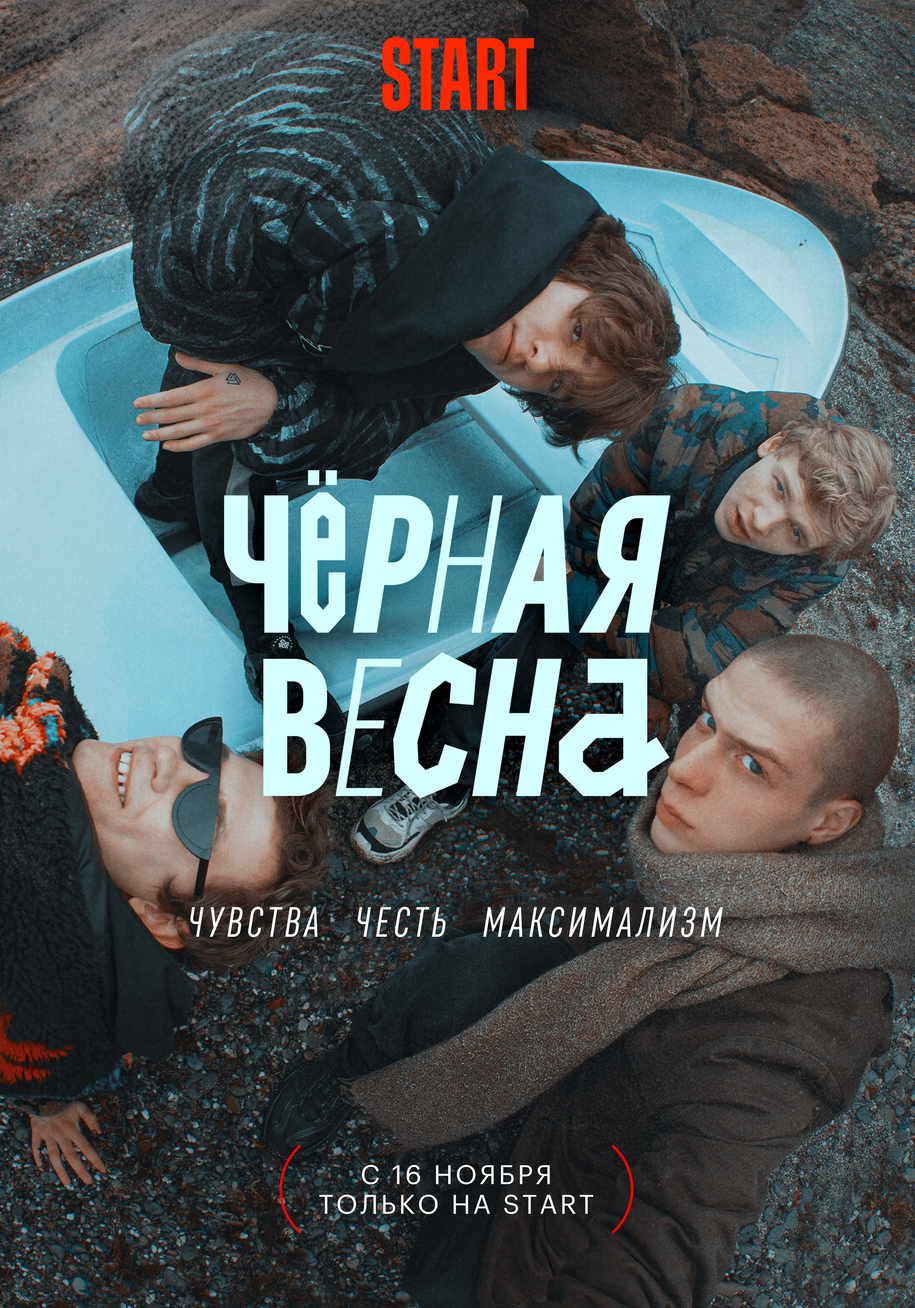
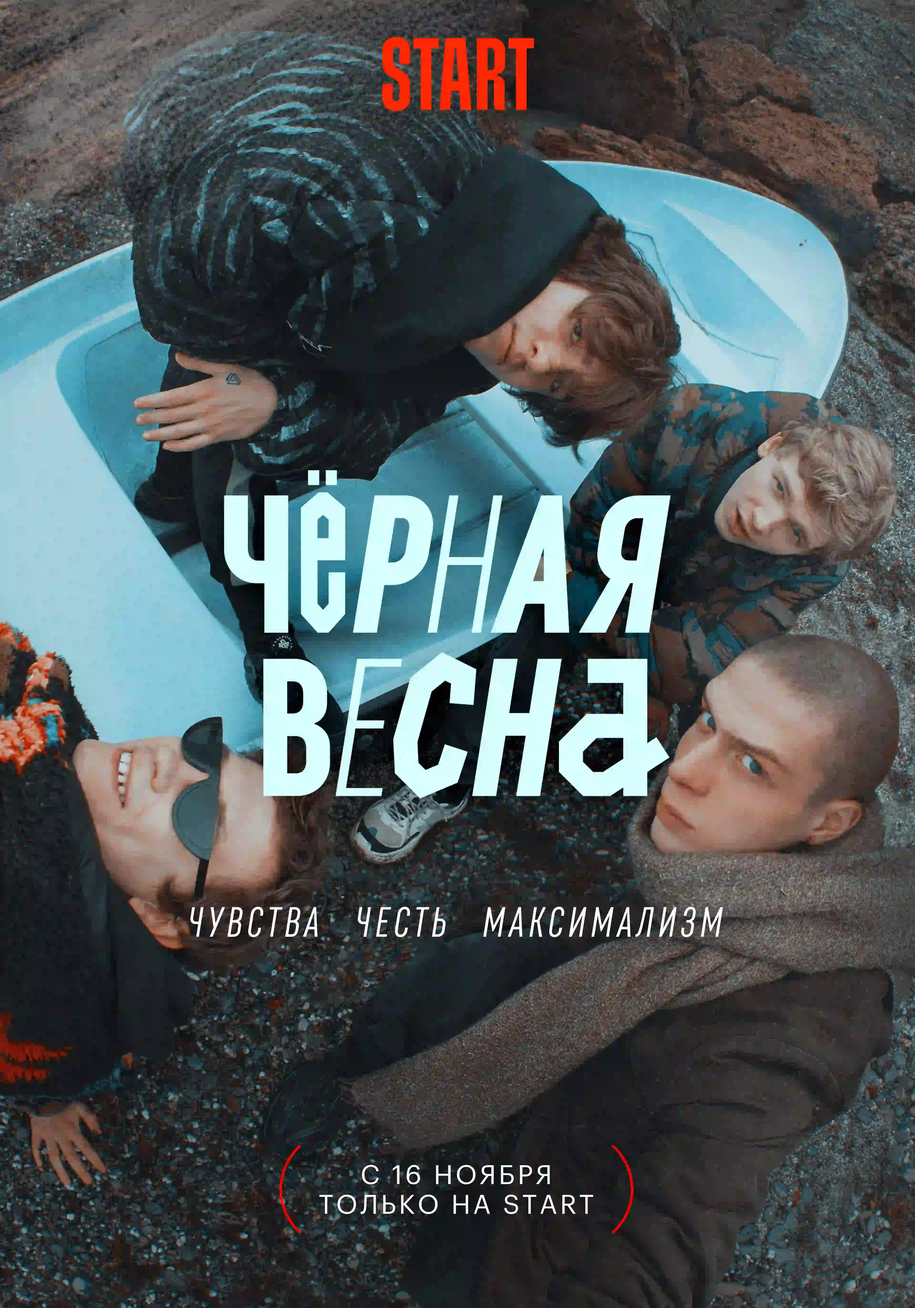
:zap: Сжал картинки

diff --git a/docs/Gazeta/1/index.md b/docs/Gazeta/1/index.md
@@ -4,7 +4,7 @@ hide:
 - navigation
 title: Газета 📰 / Выпуск №1 от 2022-01-09
 description: Новости моего манямирка
-cover: Gazeta/1/cover.png
+cover: Gazeta/1/cover.jpg
 ---
 <style>
 
